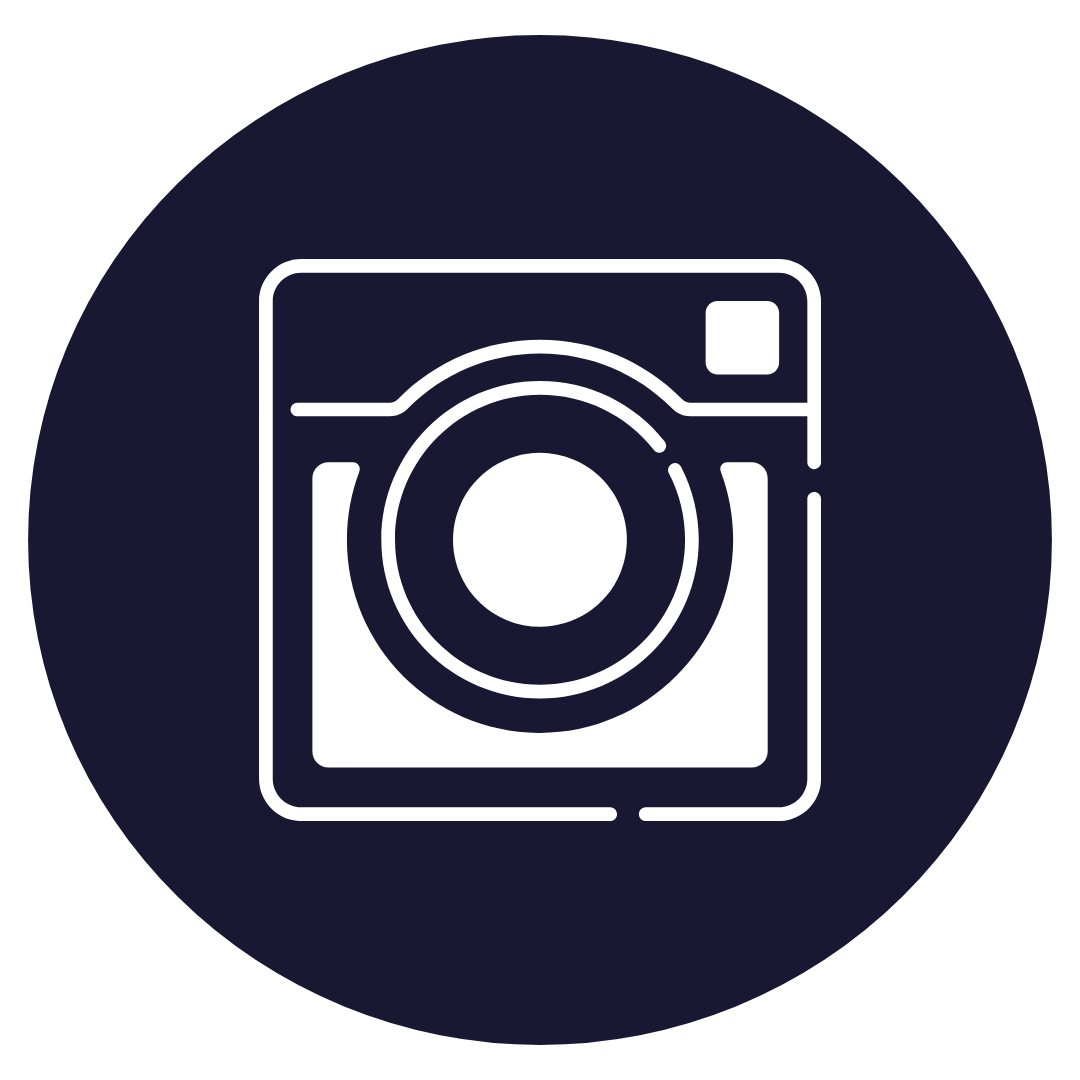
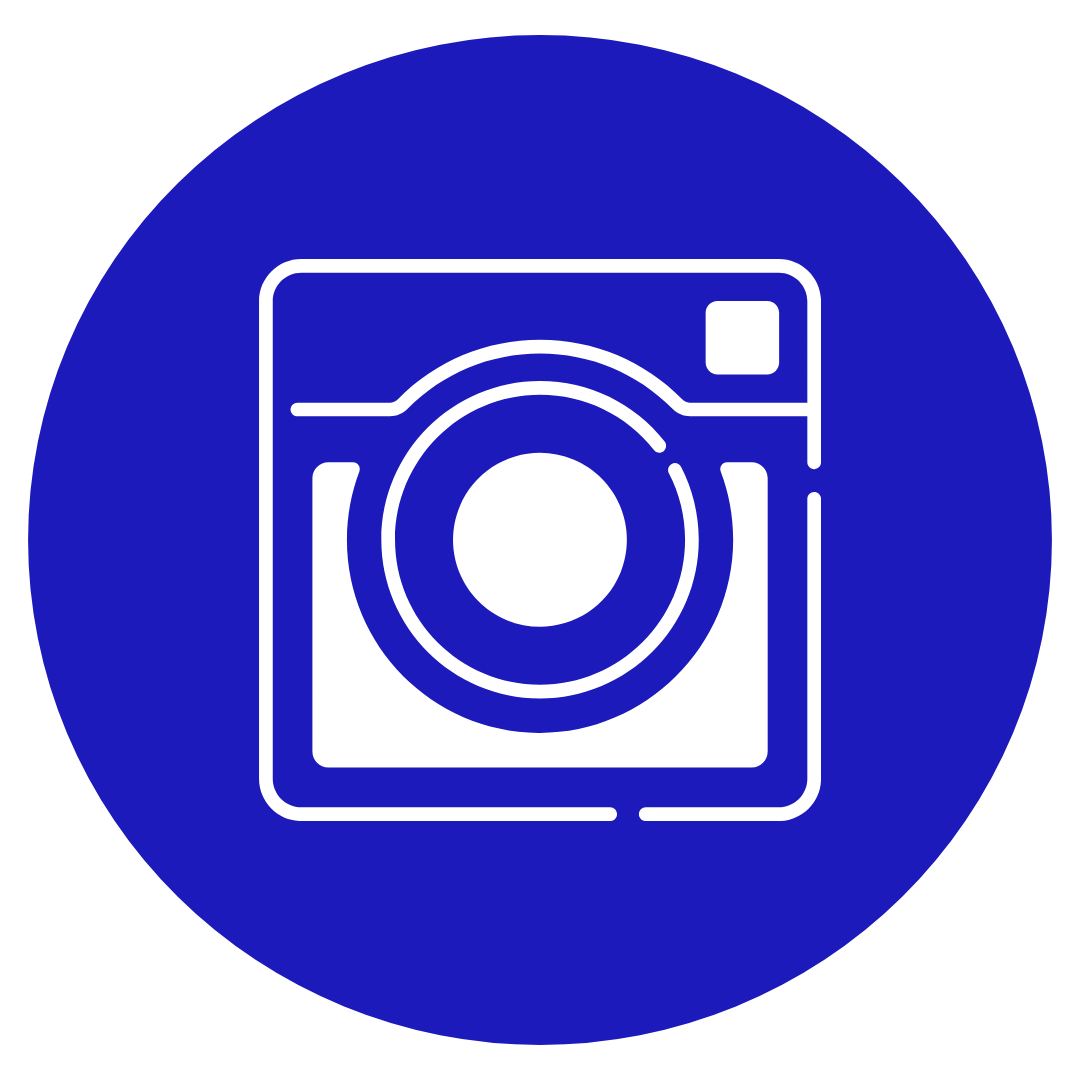
Frontend updated

diff --git a/app/page.js b/app/page.js
@@ -114,7 +114,7 @@ export default function Home() {
         backgroundSize: 'cover',
         backgroundPosition: 'center',
         backgroundRepeat: 'no-repeat',
-        backgroundColor: 'rgba(255, 255, 255, 0.3)',
+        backgroundColor: 'rgba(0, 0, 0, 0.3)',
         backgroundBlendMode: 'overlay',
       }}
     >
@@ -138,7 +138,7 @@ export default function Home() {
             <img 
               src="/1n.png"
               alt="Instagram icon"
-              style={{ width: '40px', height: '40px', objectFit: 'contain' }}
+              style={{ width: '40px', height: '40px', objectFit: 'contain'}}
             />
           </a>
         </Box>
@@ -240,7 +240,7 @@ export default function Home() {
             <Box
               bgcolor={
                 message.role === 'assistant'
-                  ? 'rgb(26, 52, 105)' 
+                  ? 'rgb(5, 165, 82)' 
                   : 'rgb(155, 200, 221)'
               }
               className="poppins-regular"
